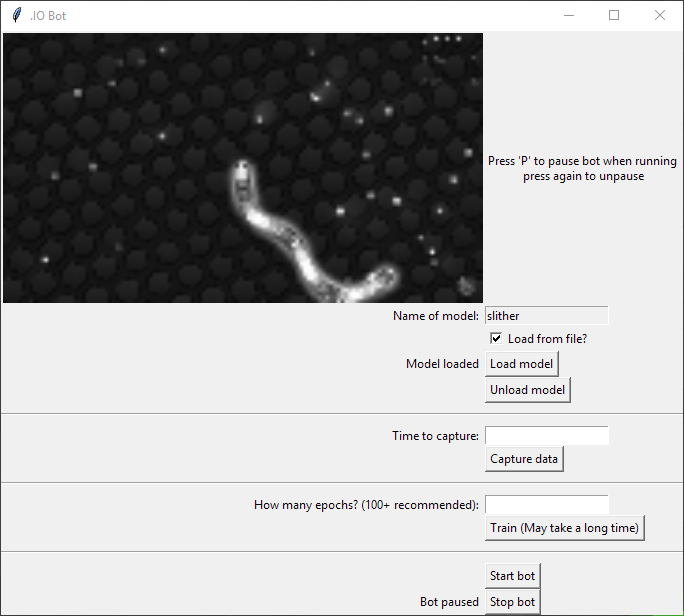
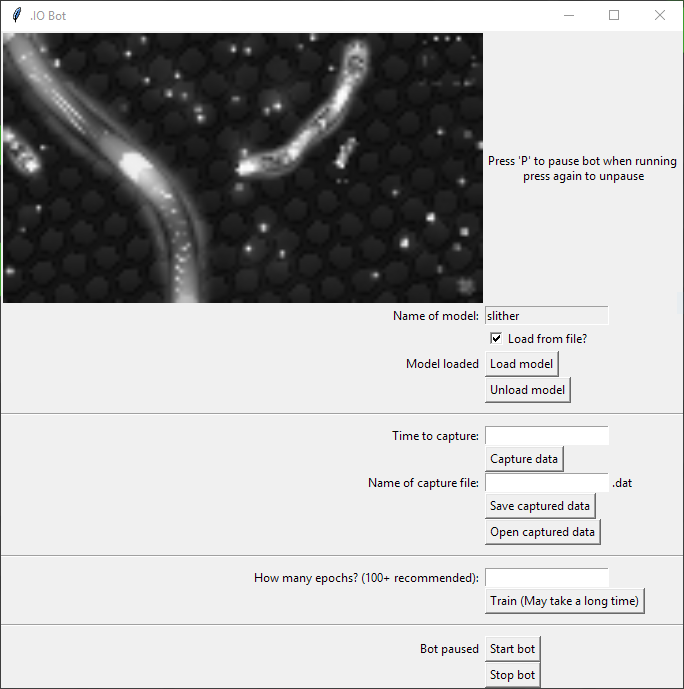
ability to save captured data

diff --git a/GUI.py b/GUI.py
@@ -2,7 +2,7 @@ from tkinter import *
 from tkinter import ttk
 from PIL import Image
 from PIL import ImageTk
-from deeptools import deeptool
+from deeptools import deeptool, picklewrite, pickleread
 import numpy as np
 
 class dummydt:
@@ -73,6 +73,13 @@ def unloadnet(entry, label=None):
     if label != None:
         label.config(text="")
 
+def savecap():
+    picklewrite(entrycapname.get()+'.dat', [dt.imgs, dt.avgdirs])
+
+def opencap():
+    out = pickleread(entrycapname.get()+'.dat')
+    dt.imgs, dt.avgdirs = out[0], out[1]
+
 pauselab = Label(root, text="Press 'P' to pause bot when running \npress again to unpause")
 pauselab.grid(column=1,row=0)
 
@@ -105,27 +112,45 @@ entrycap.grid(column=1,row=6,sticky=W)
 docap = Button(root, text="Capture data", command=lambda: cap(entrycap.get(), docap, root))
 docap.grid(column=1,row=7,sticky=W)
 
-sep(root, 8)
+entrycapnamelab = Label(root, text="Name of capture file: ")
+entrycapnamelab.grid(column=0,row=8,sticky=E)
 
-entrainlab = Label(root, text="How many epochs? (100+ recommended): ")
-entrainlab.grid(column=0,row=9,sticky=E)
+capnameframe = Frame(root)
+capnameframe.grid(column=1,row=8,sticky=W)
 
-entrytrain = Entry(root)
-entrytrain.grid(column=1,row=9,sticky=W)
+entrycapname = Entry(capnameframe)
+entrycapname.grid(column=0,row=0,sticky=E)
 
-trainit = Button(root, text="Train (May take a long time)", command=lambda: dt.train(entrytrain.get()))
-trainit.grid(column=1,row=10,sticky=W)
+entrycapnamelabext = Label(capnameframe, text=".dat")
+entrycapnamelabext.grid(column=1,row=0,sticky=W)
+
+capbut = Button(root, text="Save captured data", command=savecap)
+capbut.grid(column=1,row=9,sticky=W)
+
+uncapbut = Button(root, text="Open captured data", command=opencap)
+uncapbut.grid(column=1,row=10,sticky=W)
 
 sep(root, 11)
 
+entrainlab = Label(root, text="How many epochs? (100+ recommended): ")
+entrainlab.grid(column=0,row=12,sticky=E)
+
+entrytrain = Entry(root)
+entrytrain.grid(column=1,row=12,sticky=W)
+
+trainit = Button(root, text="Train (May take a long time)", command=lambda: dt.train(entrytrain.get()))
+trainit.grid(column=1,row=13,sticky=W)
+
+sep(root, 14)
+
 run = Button(root, text="Start bot", command=start)
-run.grid(column=1,row=12,sticky=W)
+run.grid(column=1,row=15,sticky=W)
 
 stoprun = Button(root, text="Stop bot", command=stop)
-stoprun.grid(column=1,row=13,sticky=W)
+stoprun.grid(column=1,row=16,sticky=W)
 
 pauselab = Label(root, text="")
-pauselab.grid(column=0,row=13,sticky=E)
+pauselab.grid(column=0,row=15,sticky=E)
 
 res = (root.winfo_screenwidth(), root.winfo_screenheight())
 

diff --git a/deeptools.py b/deeptools.py
@@ -1,8 +1,20 @@
 from iotools import *
 from dummytools import *
 import numpy as np
-import time, keyboard, pyautogui
+import time, keyboard, pyautogui, pickle
 from alexnet import alexnet
+
+def picklewrite(name, data):
+    file = open(name, 'wb')
+    pickle.dump(data, file)
+    file.close()
+    return True
+
+def pickleread(name):
+    file = open(name, 'rb')
+    data = pickle.load(file)
+    file.close()
+    return data
 
 class deeptool:
     def __init__(self, captures, modelname):
